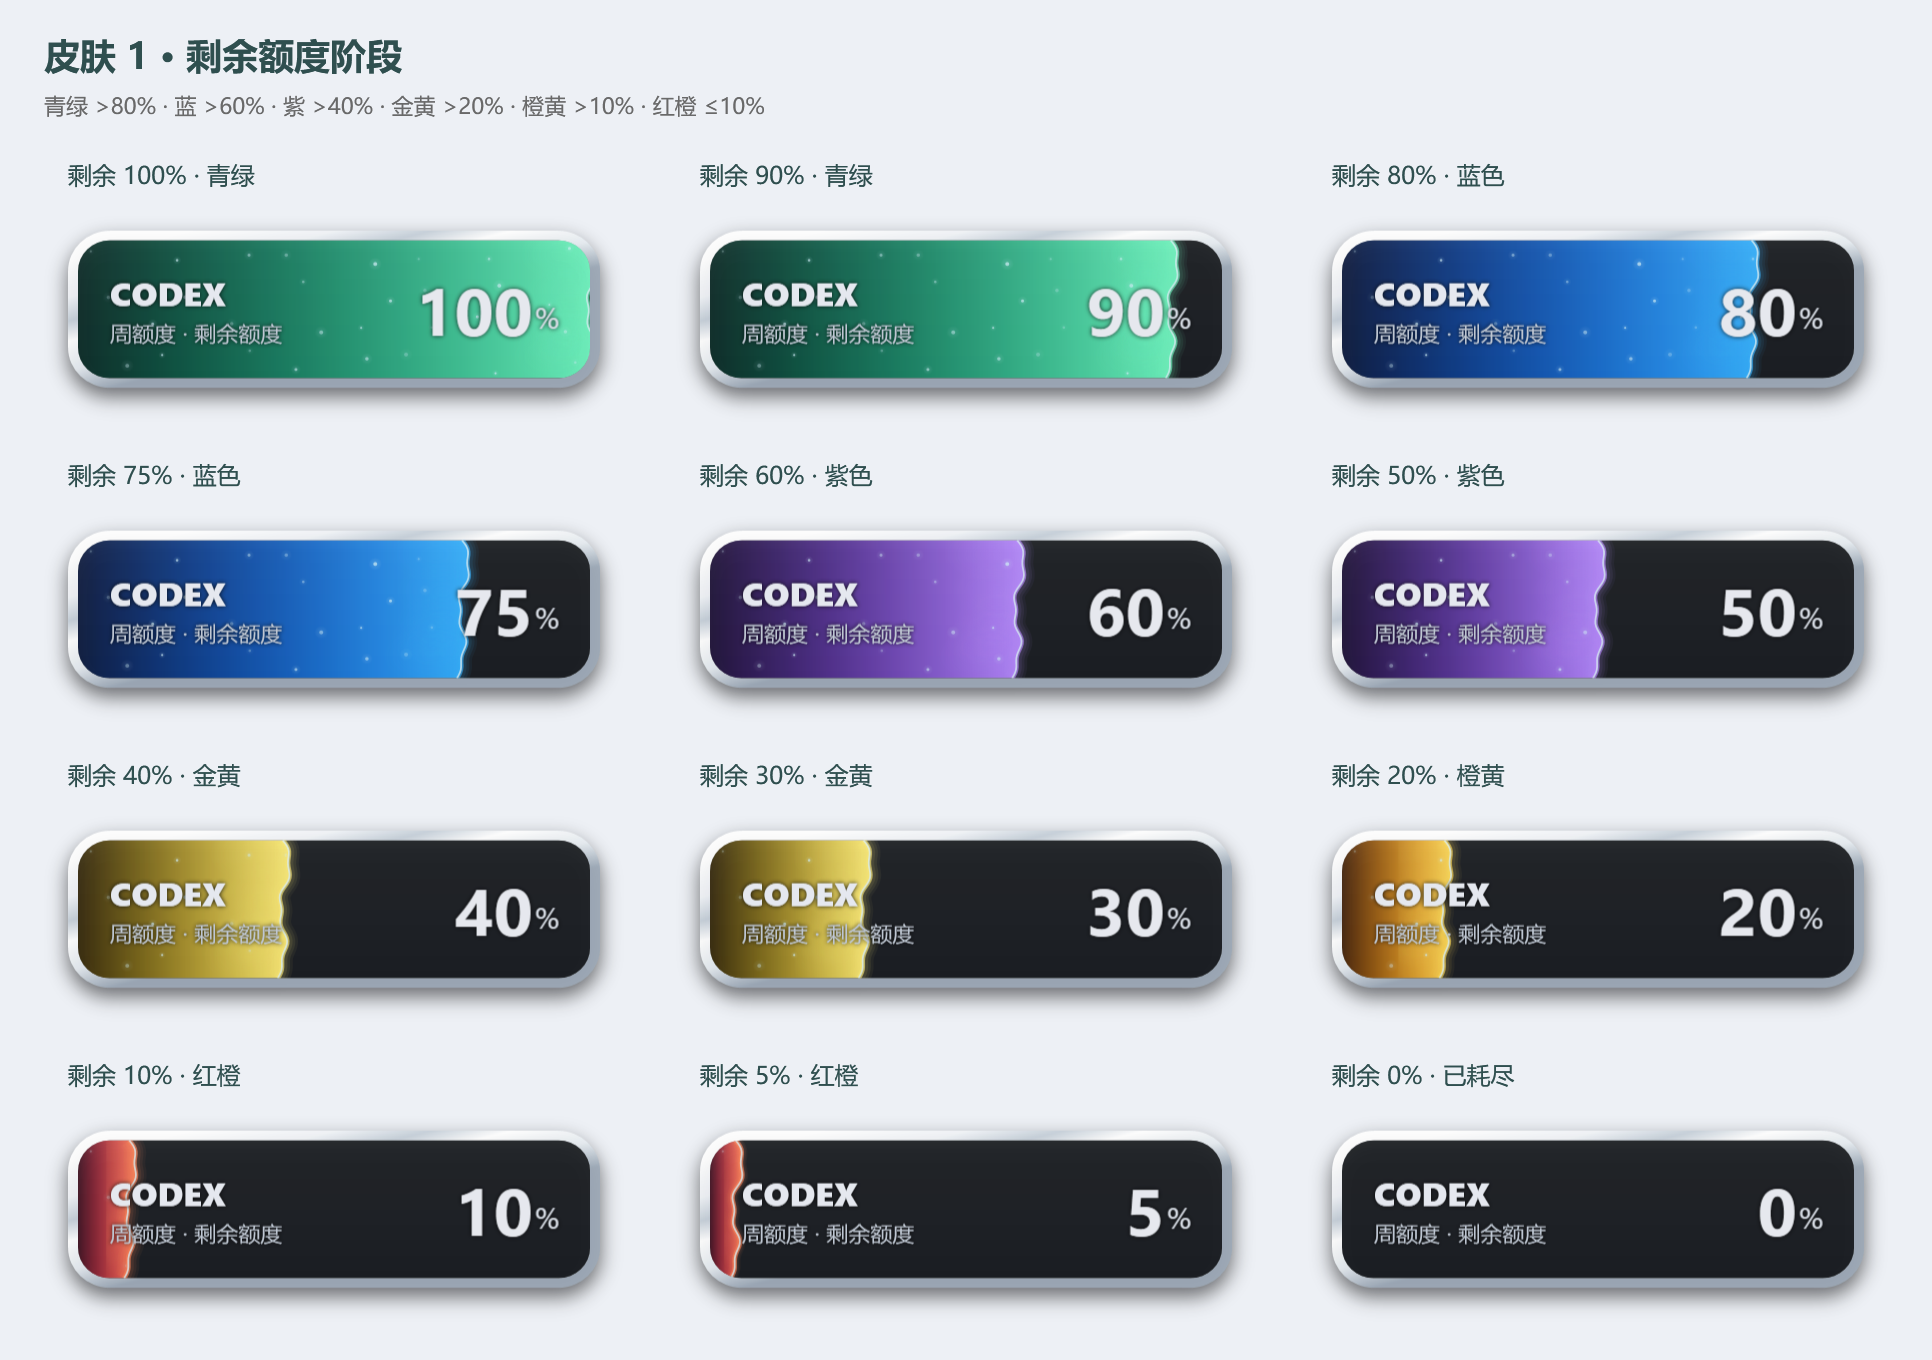
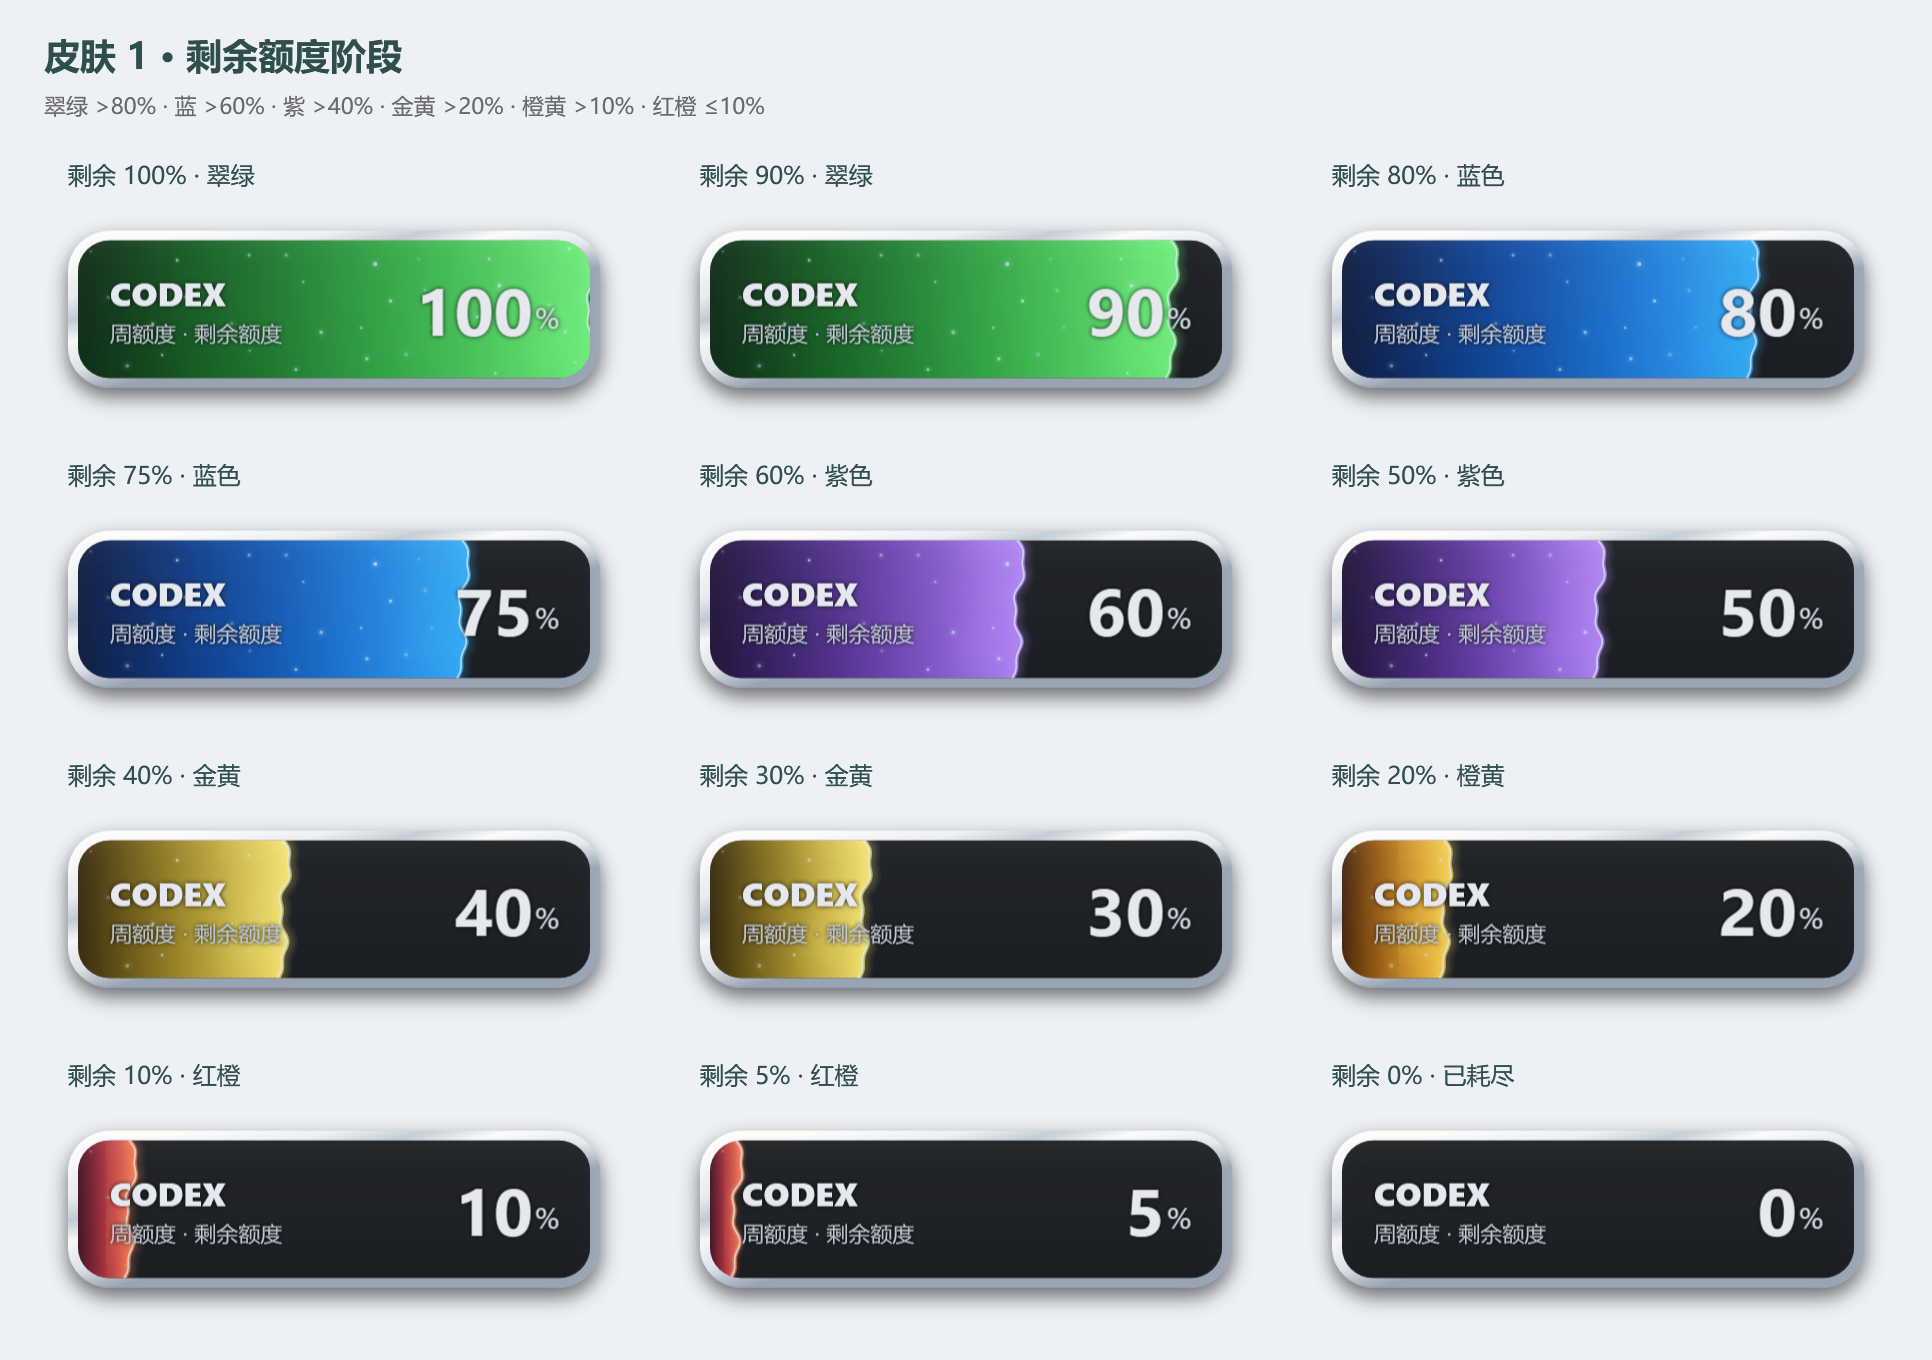
Make the full-quota capsule stage greener

Changed region(s): [[0.0621, 0.1235, 0.3106, 0.2779], [0.3727, 0.1544, 0.6211, 0.2779]]

diff --git a/src/RenderPreviews.cs b/src/RenderPreviews.cs
@@ -19,8 +19,8 @@ static class RenderPreviews {
     public static int Stages(string path){string folder=Path.GetFullPath(path);Directory.CreateDirectory(folder);var app=new Application{ShutdownMode=ShutdownMode.OnExplicitShutdown};int[] levels={100,90,80,75,60,50,40,30,20,10,5,0};var windows=new List<FloatWindow>();
         try{foreach(int level in levels){var w=Make(level);windows.Add(w);w.CaptureScene(Path.Combine(folder,"quota-"+level.ToString("000")+".png"));}
             double cellWidth=298,width=3*cellWidth+4*18,height=80+Math.Ceiling(levels.Length/3.0)*150;var scene=new DrawingVisual();using(var dc=scene.RenderOpen()){
-                dc.DrawRectangle(new SolidColorBrush(Color.FromRgb(237,240,245)),null,new Rect(0,0,width,height));Text(dc,"皮肤 1 · 剩余额度阶段",22,16,18,Brushes.DarkSlateGray,true);Text(dc,"青绿 >80% · 蓝 >60% · 紫 >40% · 金黄 >20% · 橙黄 >10% · 红橙 ≤10%",22,46,11,Brushes.DimGray);
-                for(int i=0;i<levels.Length;i++){int p=levels[i];double x=18+(i%3)*(cellWidth+18),y=80+(i/3)*150;string stage=p==0?"已耗尽":p>80?"青绿":p>60?"蓝色":p>40?"紫色":p>20?"金黄":p>10?"橙黄":"红橙";Text(dc,"剩余 "+p+"% · "+stage,x+16,y,12,Brushes.DarkSlateGray);dc.DrawRectangle(new VisualBrush(windows[i]),null,new Rect(x,y+20,windows[i].ActualWidth,windows[i].ActualHeight));}
+                dc.DrawRectangle(new SolidColorBrush(Color.FromRgb(237,240,245)),null,new Rect(0,0,width,height));Text(dc,"皮肤 1 · 剩余额度阶段",22,16,18,Brushes.DarkSlateGray,true);Text(dc,"翠绿 >80% · 蓝 >60% · 紫 >40% · 金黄 >20% · 橙黄 >10% · 红橙 ≤10%",22,46,11,Brushes.DimGray);
+                for(int i=0;i<levels.Length;i++){int p=levels[i];double x=18+(i%3)*(cellWidth+18),y=80+(i/3)*150;string stage=p==0?"已耗尽":p>80?"翠绿":p>60?"蓝色":p>40?"紫色":p>20?"金黄":p>10?"橙黄":"红橙";Text(dc,"剩余 "+p+"% · "+stage,x+16,y,12,Brushes.DarkSlateGray);dc.DrawRectangle(new VisualBrush(windows[i]),null,new Rect(x,y+20,windows[i].ActualWidth,windows[i].ActualHeight));}
             }Save(scene,width,height,Path.Combine(folder,"皮肤1额度阶段总览.png"));Data.Atomic(Path.Combine(folder,"stages.json"),Data.Json().Serialize(new{exampleValues=true,remainingPercent=levels,thresholds=new[]{80,60,40,20,10},scale=2}));
         }finally{foreach(var w in windows)w.Close();app.Shutdown();}return 0;
     }

diff --git a/src/CodexMeter.cs b/src/CodexMeter.cs
@@ -155,7 +155,7 @@ class EnergySurface : FrameworkElement {
         double w=ActualWidth,h=ActualHeight;if(w<=0||h<=0)return;
         double t=elapsed.Elapsed.TotalSeconds,p=double.IsNaN(DisplayedRemaining)?Remaining:DisplayedRemaining,x=w*Math.Max(0,Math.Min(100,p))/100;
         Color start,body,tip;
-        if(Remaining>80){start=Color.FromRgb(7,39,34);body=Color.FromRgb(0,148,106);tip=Color.FromRgb(108,247,190);}
+        if(Remaining>80){start=Color.FromRgb(8,38,15);body=Color.FromRgb(15,157,42);tip=Color.FromRgb(112,247,125);}
         else if(Remaining>60){start=Color.FromRgb(9,23,58);body=Color.FromRgb(0,77,210);tip=Color.FromRgb(49,177,255);}
         else if(Remaining>40){start=Color.FromRgb(27,15,52);body=Color.FromRgb(87,39,174);tip=Color.FromRgb(182,136,255);}
         else if(Remaining>20){start=Color.FromRgb(49,37,7);body=Color.FromRgb(175,144,13);tip=Color.FromRgb(255,237,115);}

diff --git a/CHANGELOG.md b/CHANGELOG.md
@@ -1,5 +1,9 @@
 # Changelog
 
+## v1.0.6 — 2026-10-18
+
+- Make the highest capsule quota stage greener while retaining the blue 80 percent stage.
+
 ## v1.0.5 — 2026-10-18
 
 - Use six capsule color stages at 80, 60, 40, 20, and 10 percent remaining.
